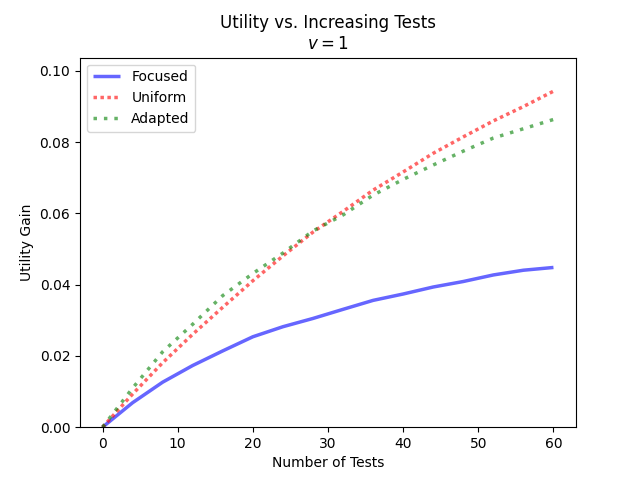
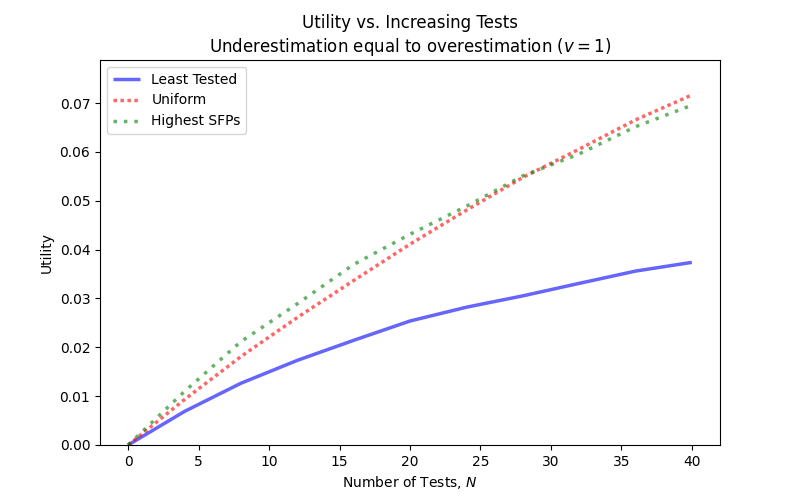
imp samp updates + example SC update

diff --git a/CASESTUDY_expl.py b/CASESTUDY_expl.py
@@ -182,6 +182,72 @@ np.save(os.path.join('casestudyoutputs', 'exploratory', 'expl_util_avg'), util_a
 np.save(os.path.join('casestudyoutputs', 'exploratory', 'expl_util_hi'), util_hi)
 np.save(os.path.join('casestudyoutputs', 'exploratory', 'expl_util_lo'), util_lo)
 
+''' 9-OCT-24
+Want an interruptible/restartable utility estimation loop here
+'''
+numreps = 10
+stop = False
+while not stop:
+    # We want 10 evaluations of utility for each plan and testnum
+    util_avg_unif, util_hi_unif, util_lo_unif = np.empty((numreps, int(testmax / testint) + 1)), \
+        np.empty((numreps, int(testmax / testint) + 1)), \
+        np.empty((numreps, int(testmax / testint) + 1))
+    util_avg_unif, util_hi_unif, util_lo_unif = np.empty((numreps, int(testmax / testint) + 1)), \
+        np.empty((numreps, int(testmax / testint) + 1)), \
+        np.empty((numreps, int(testmax / testint) + 1))
+    util_avg_rudi, util_hi_rudi, util_lo_rudi = np.zeros((numreps, int(testmax / testint) + 1)), \
+        np.empty((numreps, int(testmax / testint) + 1)), \
+        np.empty((numreps, int(testmax / testint) + 1))
+
+    # Read in the current allocation
+    alloc = np.load(os.path.join('utilitypaper', 'allprovinces', 'allprov_alloc.npy'))
+    util_avg = np.load(os.path.join('utilitypaper', 'allprovinces', 'allprov_util_avg.npy'))
+    util_hi = np.load(os.path.join('utilitypaper', 'allprovinces', 'allprov_util_hi.npy'))
+    util_lo = np.load(os.path.join('utilitypaper', 'allprovinces', 'allprov_util_lo.npy'))
+    # Stop if the last allocation column is empty
+    if np.sum(alloc[:, -1]) > 0:
+        stop = True
+    else:
+        testnumind = np.argmax(np.sum(alloc, axis=0))
+        bestalloc = alloc[:, testnumind]
+        nextTN = -1 # Initialize next best node
+        currbestloss_avg, currbestloss_CI = -1, (-1, -1) # Initialize next best utility
+        for currTN in range(numTN):  # Loop through each test node and identify best direction via lowest avg loss
+            curralloc = bestalloc.copy()
+            curralloc[currTN] += 1  # Increment 1 at current test node
+            testnum = np.sum(curralloc) * testint
+            currdes = curralloc / np.sum(curralloc)  # Make a proportion design
+            currlosslist = sampf.sampling_plan_loss_list_importance(currdes, testnum, csdict_expl, paramdict,
+                                                              numimportdraws=60000,
+                                                              numdatadrawsforimportance=5000,
+                                                              impweightoutlierprop=0.005)
+            currloss_avg, currloss_CI = sampf.process_loss_list(currlosslist, zlevel=0.95)
+            print('TN ' + str(currTN) + ' loss avg.: ' + str(currloss_avg))
+            if nextTN == -1 or currloss_avg < currbestloss_avg:  # Update with better loss
+                nextTN = currTN
+                currbestloss_avg = currloss_avg
+                currbestloss_CI = currloss_CI
+        # Store best results
+        alloc[:, testnumind + 1] = bestalloc.copy()
+        alloc[nextTN, testnumind + 1] += 1
+        util_avg[testnumind + 1] = paramdict['baseloss'] - currbestloss_avg
+        util_hi[testnumind + 1] = paramdict['baseloss'] - currbestloss_CI[0]
+        util_lo[testnumind + 1] = paramdict['baseloss'] - currbestloss_CI[1]
+        # Save as numpy objects
+        np.save(os.path.join('utilitypaper', 'allprovinces', 'allprov_alloc'), alloc)
+        np.save(os.path.join('utilitypaper', 'allprovinces', 'allprov_util_avg'), util_avg)
+        np.save(os.path.join('utilitypaper', 'allprovinces', 'allprov_util_hi'), util_hi)
+        np.save(os.path.join('utilitypaper', 'allprovinces', 'allprov_util_lo'), util_lo)
+        print('TN ' + str(nextTN) + ' added, with utility CI of (' + str(util_lo[testnumind + 1]) + ', ' +
+              str(util_hi[testnumind + 1]) + ') for ' + str(testnum) + ' tests')
+        numint = util_avg.shape[0]
+        util.plot_marg_util_CI(util_avg.reshape(1, numint), util_hi.reshape(1, numint), util_lo.reshape(1, numint),
+                               testmax, testint, titlestr='')
+        util.plot_plan(alloc, np.arange(0, testmax + 1, testint), testint, titlestr='')
+'''
+END RESTARTABLE UTILITY ESTIMATION
+'''
+
 # Evaluate utility for uniform and rudimentary
 util_avg_unif, util_hi_unif, util_lo_unif = np.zeros((int(testmax / testint) + 1)), \
                                             np.zeros((int(testmax / testint) + 1)), \

diff --git a/CASESTUDY_plotsforpaper.py b/CASESTUDY_plotsforpaper.py
@@ -132,13 +132,13 @@ def example_planutility():
                     plt.text(testmax * 1.01, deltaArr[tnind, -1], labels[tnind].ljust(15), fontsize=5)
         plt.legend()
         plt.ylim([0., yMax])
-        plt.xlabel('Number of Tests, $N$')
+        plt.xlabel('Number of tests, $N$')
         if type == 'delta':
             plt.ylabel('Marginal Utility Gain')
             plt.title('Marginal Utility vs. Increasing Tests\n' + titlestr)
         else:
-            plt.ylabel('Utility')
-            plt.title('Utility vs. Increasing Tests\n' + titlestr)
+            plt.ylabel('Utility, $U$')
+            plt.title('Utility vs. tests\n' + titlestr)
         plt.show()
         plt.close()
         return
@@ -153,10 +153,10 @@ def example_planutility():
     # Per comment, cut off at 40 tests instead in order to capture more interesting elements
     testmax=40
     plot_marg_util(baseutil_arr[:, :-5], testmax=testmax, testint=testint,
-                        colors=['blue', 'red', 'green'], titlestr='$v=1$',
+                        colors=['blue', 'red', 'green'], titlestr='Underestimation equal to overestimation $(v=1)$',
                         labels=['Least Tested', 'Uniform', 'Highest SFPs'])
     plot_marg_util(adjutil_arr[:, :-5], testmax=testmax, testint=testint,
-                        colors=['blue', 'red', 'green'], titlestr='$v=10$',
+                        colors=['blue', 'red', 'green'], titlestr='Underestimation more significant than overestimation $(v=10)$',
                         labels=['Least Tested', 'Uniform', 'Highest SFPs'])
     return
 
